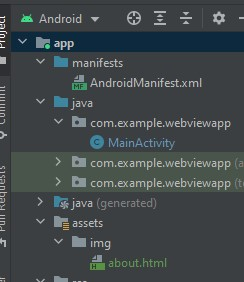
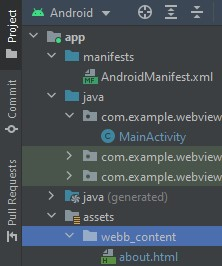
refractor made

diff --git a/app/src/main/java/com/example/webviewapp/MainActivity.java b/app/src/main/java/com/example/webviewapp/MainActivity.java
@@ -19,11 +19,11 @@ public class MainActivity extends AppCompatActivity {
 
 
     public void showExternalWebPage(){
-        // TODO: Add your code for showing external web page here
+        myWebView.loadUrl("https://www.youtube.com/watch?v=d8zLGT5upZs&list=PLAxZA8hcpPLLjcktHtsZiACBvfAhUp6AF&index=25&ab_channel=LenaSYS");
     }
 
     public void showInternalWebPage(){
-        // TODO: Add your code for showing internal web page here
+      myWebView.loadUrl("/");
     }
 
     @Override

diff --git a/README.md b/README.md
@@ -28,8 +28,8 @@ android:layout_width="match_parent"
 android:layout_height="match_parent"
 />
 ```
-I filen 'MainActivity.java' skapades en private member variable av`WebView` och instansierades i metoden `onCreate()`,
-där den hittades med hjälp av 'findViewById'
+I filen `MainActivity.java` skapades en private member variable av`WebView` och instansierades i metoden `onCreate()`,
+där den hittades med hjälp av `findViewById`
 ```
 public class MainActivity extends AppCompatActivity {
     private WebView myWebView;
@@ -58,12 +58,12 @@ sedan aktivera javascript.
         webSettings.setJavaScriptEnabled(true);
 ```
 
-För att kunna utföra nästa steg måste först en assets map skapas som sedan kommer innehålla en map med en html fil. 
+För att utföra nästa steg (sätta till en html sida som asset) måste först en assets map skapas innehållande en map (som döps till webb_content) där vi sedan skapar html-filen. 
 
 ![](assetFolderCreated.jpg)
 
 
-Och skrev sedan in 
+
 **Skriv din rapport här!**
 
 _Du kan ta bort all text som finns sedan tidigare_.
